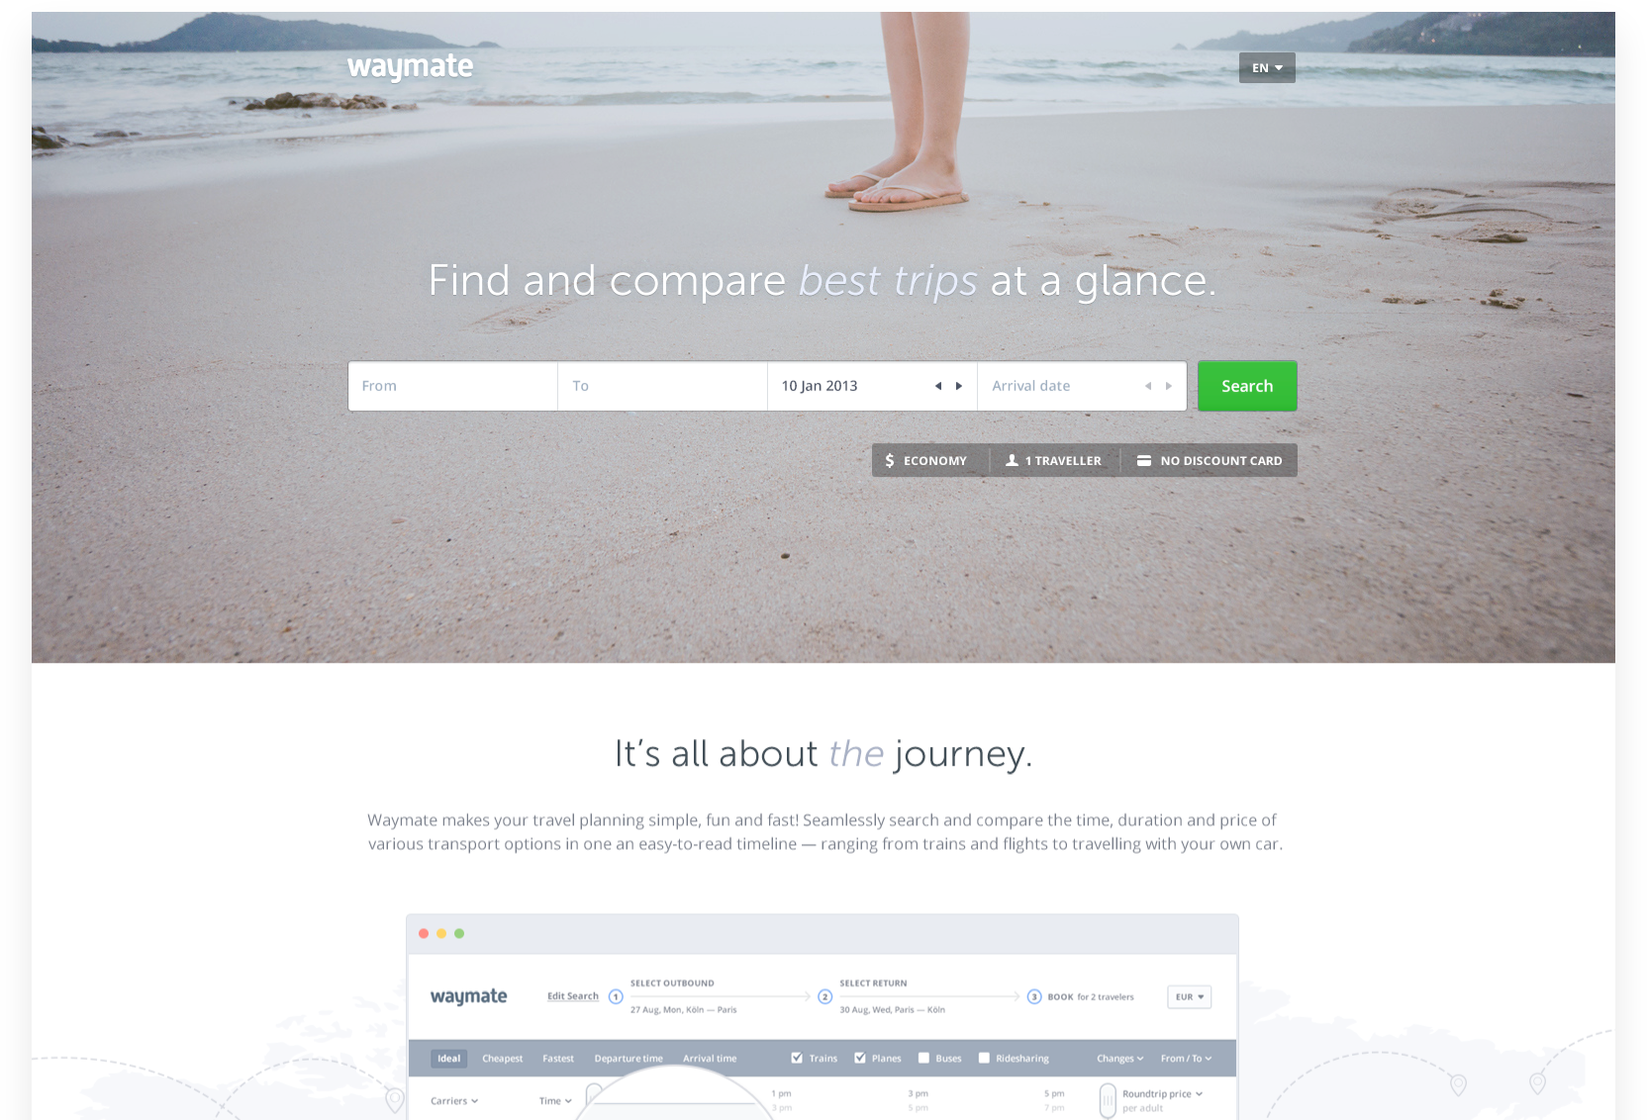
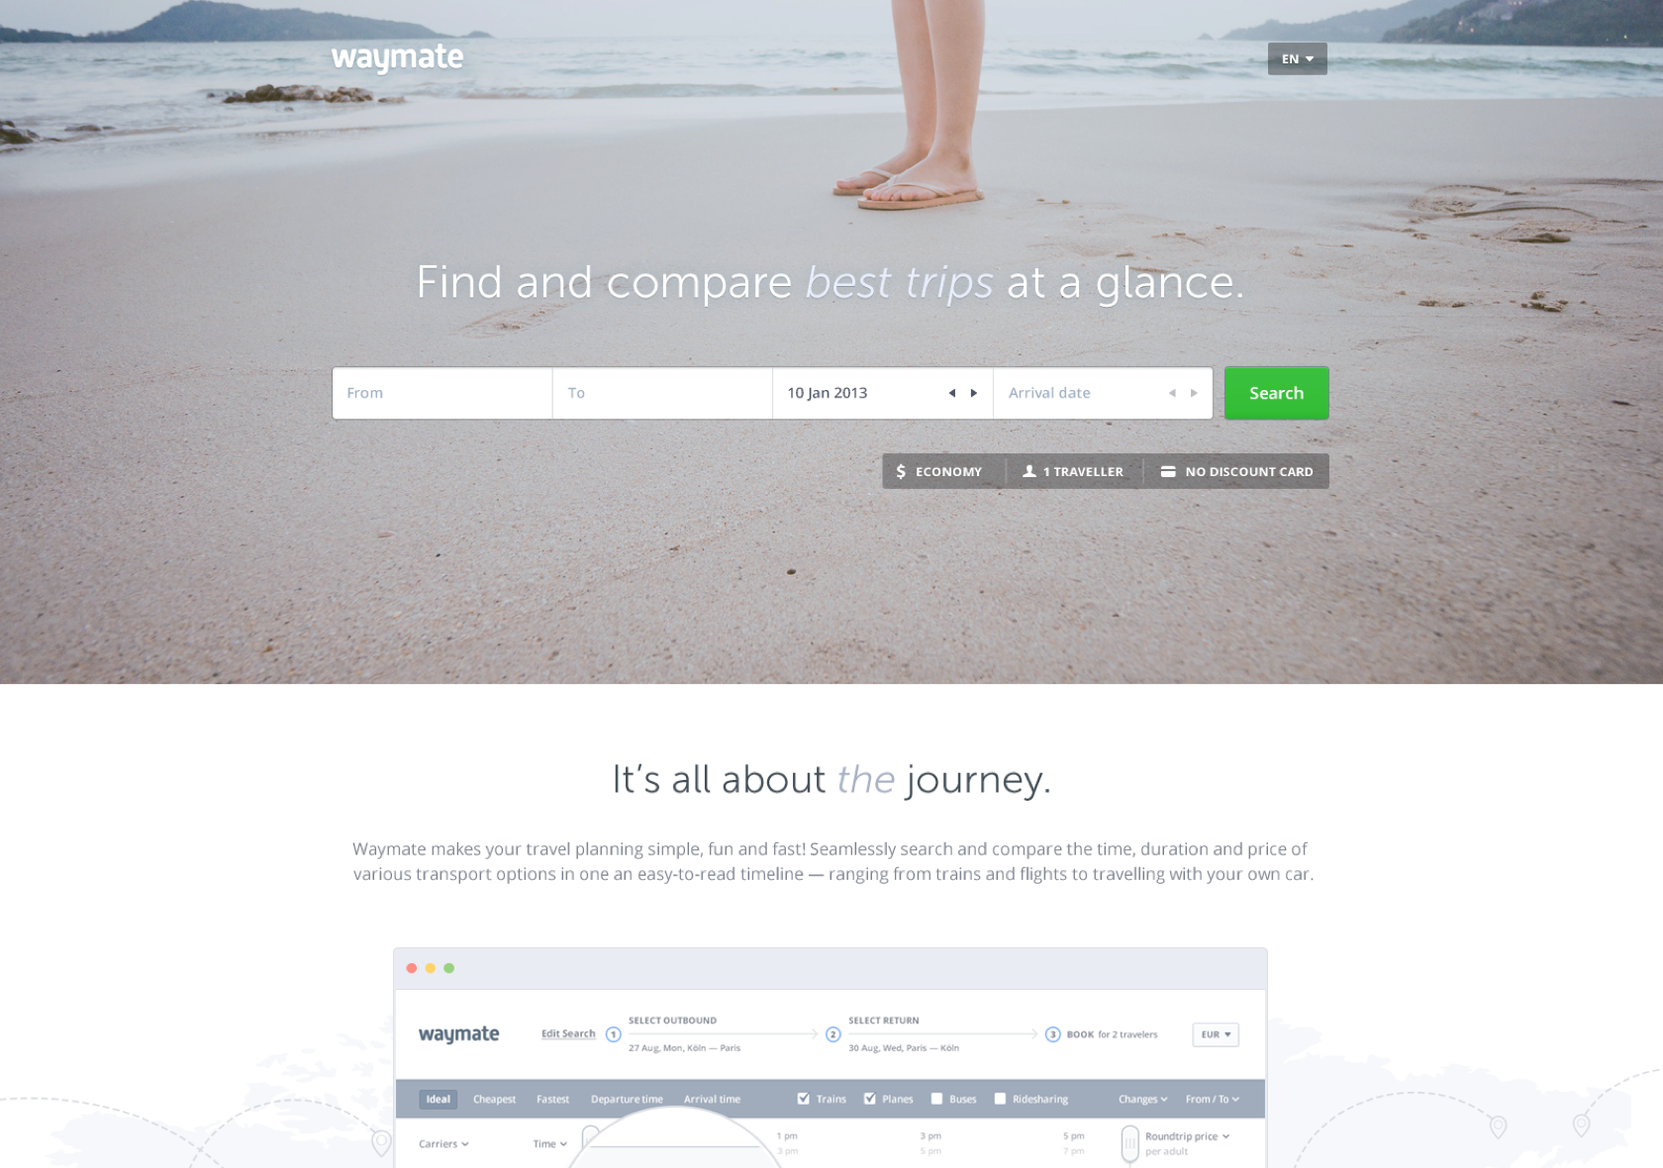
fix waymate

diff --git a/public/application.css b/public/application.css
@@ -1,1 +1,1 @@
-.navbar__container,.section__container{max-width:1240px;margin:0 auto;padding:0 20px}.section__container:after{content:'';clear:both;display:table}.section--intro .section__title{-moz-transform:translateY(-50%);-ms-transform:translateY(-50%);-webkit-transform:translateY(-50%);transform:translateY(-50%);position:absolute;top:50%}/*! normalize.css v3.0.3 | MIT License | github.com/necolas/normalize.css */html{font-family:sans-serif;-ms-text-size-adjust:100%;-webkit-text-size-adjust:100%}body{margin:0}article,aside,details,figcaption,figure,footer,header,hgroup,main,menu,nav,section,summary{display:block}audio,canvas,progress,video{display:inline-block;vertical-align:baseline}audio:not([controls]){display:none;height:0}[hidden],template{display:none}a{background-color:transparent}a:active,a:hover{outline:0}abbr[title]{border-bottom:1px dotted}b,strong{font-weight:bold}dfn{font-style:italic}h1{font-size:2em;margin:0.67em 0}mark{background:#ff0;color:#000}small{font-size:80%}sub,sup{font-size:75%;line-height:0;position:relative;vertical-align:baseline}sup{top:-0.5em}sub{bottom:-0.25em}img{border:0}svg:not(:root){overflow:hidden}figure{margin:1em 40px}hr{box-sizing:content-box;height:0}pre{overflow:auto}code,kbd,pre,samp{font-family:monospace, monospace;font-size:1em}button,input,optgroup,select,textarea{color:inherit;font:inherit;margin:0}button{overflow:visible}button,select{text-transform:none}button,html input[type="button"],input[type="reset"],input[type="submit"]{-webkit-appearance:button;cursor:pointer}button[disabled],html input[disabled]{cursor:default}button::-moz-focus-inner,input::-moz-focus-inner{border:0;padding:0}input{line-height:normal}input[type="checkbox"],input[type="radio"]{box-sizing:border-box;padding:0}input[type="number"]::-webkit-inner-spin-button,input[type="number"]::-webkit-outer-spin-button{height:auto}input[type="search"]{-webkit-appearance:textfield;box-sizing:content-box}input[type="search"]::-webkit-search-cancel-button,input[type="search"]::-webkit-search-decoration{-webkit-appearance:none}fieldset{border:1px solid #c0c0c0;margin:0 2px;padding:0.35em 0.625em 0.75em}legend{border:0;padding:0}textarea{overflow:auto}optgroup{font-weight:bold}table{border-collapse:collapse;border-spacing:0}td,th{padding:0}body{font:18px "Abel",sans-serif;color:#373f52;background:#fff;text-shadow:0 1px 2px rgba(0,0,0,0.1);text-rendering:optimizeLegibility;-webkit-font-smoothing:antialiased}p{margin:0}a{color:#fff;text-decoration:none}.navbar{z-index:10;position:absolute;top:50px;left:0;width:100%;text-transform:uppercase;font-size:16px}.navbar__container{box-sizing:border-box}.navbar__brand{float:left}.navbar__nav{float:right}.navbar__menu{list-style:none;padding:0;margin:0}.navbar__menu-item{display:inline-block;vertical-align:top;padding-left:60px;transition:all .4s}.navbar__menu-item:first-child{padding-left:0}.navbar__brand,.navbar__menu-link{border-bottom:2px solid rgba(238,55,105,0);transition:border .2s ease-in-out}.navbar__brand:hover,.navbar__menu-link:hover{border-bottom-color:#ee3769}@media screen and (max-width: 1024px){.navbar__menu-item{padding-left:30px}}@media screen and (max-width: 768px){.navbar{text-align:center;position:static;background:#b7cad3}.navbar__container{padding:20px 0}.navbar__brand,.navbar__nav{float:none}.navbar__brand{margin-bottom:20px}.navbar__nav{padding-top:20px}.navbar__menu-item{padding-left:10px}}.pagination{list-style:none;padding:0;margin:0}.pagination__item,.pagination__link{display:inline-block;vertical-align:middle}.pagination__item{padding:0 4px}.pagination__link{width:8px;height:8px;background:#ebecee;border-radius:100%}.pagination__link.is-active{background:#ee3769}.section{overflow:hidden}.section__container{box-sizing:border-box;padding-top:60px;padding-bottom:60px;min-height:800px;min-height:100vh;position:relative}.section__title{margin:0;padding:0;font-weight:normal;font-size:22px}.section__footer-link{font-size:14px;font-weight:300;font-family:"Merriweather",serif;font-style:italic;position:relative}.section__footer-link:after{content:'';position:absolute;bottom:-8px;left:0;width:40px;height:2px;background:#ee3769;transition:width .3s}.section__footer-link:hover:after{width:100%}.section--intro{background-image:url("images/intro-bg.jpg");background-position:50% 50%;background-repeat:no-repeat;background-size:cover;background-color:#b7cad3;color:#fff}.section--intro .section__title{max-width:70%;font-size:80px;font-family:"Merriweather",serif;font-style:italic;letter-spacing:2px;line-height:1.125;transition:all .4s}.section--intro .section__footer-link{-moz-transform:translateX(-50%);-ms-transform:translateX(-50%);-webkit-transform:translateX(-50%);transform:translateX(-50%);position:absolute;bottom:30px;left:50%}.section--intro .section__footer-link:after{-moz-transform:translateX(-50%);-ms-transform:translateX(-50%);-webkit-transform:translateX(-50%);transform:translateX(-50%);left:50%}@media screen and (max-width: 1024px){.section--intro .section__title{max-width:none;font-size:60px}}@media screen and (max-width: 768px){.section--intro{background-image:none}.section--intro .section__container{min-height:0;padding-top:30px;padding-bottom:100px}.section--intro .section__title{position:static;-moz-transform:none;-ms-transform:none;-webkit-transform:none;transform:none;font-size:40px}}.section--project-wimdu,.section--project-soundcloud,.section--project-waymate,.section--contact,.section--blog,.section--base{background-position:50% 50%;background-repeat:no-repeat;background-size:cover}.section--project-wimdu .section__column-left,.section--project-soundcloud .section__column-left,.section--project-waymate .section__column-left,.section--contact .section__column-left,.section--blog .section__column-left,.section--project-wimdu .section__column-right,.section--project-soundcloud .section__column-right,.section--project-waymate .section__column-right,.section--contact .section__column-right,.section--blog .section__column-right,.section--base .section__column-left,.section--base .section__column-right{transition:all .4s}.section--project-wimdu .section__column-left,.section--project-soundcloud .section__column-left,.section--project-waymate .section__column-left,.section--contact .section__column-left,.section--blog .section__column-left,.section--base .section__column-left{width:440px;float:left}.section--project-wimdu .section__column-right,.section--project-soundcloud .section__column-right,.section--project-waymate .section__column-right,.section--contact .section__column-right,.section--blog .section__column-right,.section--base .section__column-right{float:right}.section--project-wimdu .section__title,.section--project-soundcloud .section__title,.section--project-waymate .section__title,.section--contact .section__title,.section--blog .section__title,.section--project-wimdu .section__body,.section--project-soundcloud .section__body,.section--project-waymate .section__body,.section--contact .section__body,.section--blog .section__body,.section--base .section__title,.section--base .section__body{margin-bottom:30px}.section--project-wimdu .section__body,.section--project-soundcloud .section__body,.section--project-waymate .section__body,.section--contact .section__body,.section--blog .section__body,.section--base .section__body{letter-spacing:.5px;line-height:1.25}.section--project-wimdu .section__image,.section--project-soundcloud .section__image,.section--project-waymate .section__image,.section--contact .section__image,.section--blog .section__image,.section--base .section__image{display:block;position:absolute;right:-100px;top:110px;width:calc(100% - 440px)}@media screen and (max-width: 1024px){.section--project-wimdu .section__container,.section--project-soundcloud .section__container,.section--project-waymate .section__container,.section--contact .section__container,.section--blog .section__container,.section--base .section__container{min-height:auto}.section--project-wimdu .section__column-left,.section--project-soundcloud .section__column-left,.section--project-waymate .section__column-left,.section--contact .section__column-left,.section--blog .section__column-left,.section--project-wimdu .section__column-right,.section--project-soundcloud .section__column-right,.section--project-waymate .section__column-right,.section--contact .section__column-right,.section--blog .section__column-right,.section--base .section__column-left,.section--base .section__column-right{width:100%;float:none}.section--project-wimdu .section__column-left,.section--project-soundcloud .section__column-left,.section--project-waymate .section__column-left,.section--contact .section__column-left,.section--blog .section__column-left,.section--base .section__column-left{margin-bottom:40px}.section--project-wimdu .section__image,.section--project-soundcloud .section__image,.section--project-waymate .section__image,.section--contact .section__image,.section--blog .section__image,.section--base .section__image{width:100%;position:static}}@media screen and (max-width: 768px){.section--project-wimdu .section__container,.section--project-soundcloud .section__container,.section--project-waymate .section__container,.section--contact .section__container,.section--blog .section__container,.section--base .section__container{padding-top:30px;padding-bottom:30px}}.section--project-soundcloud,.section--contact,.section--light{text-shadow:none}.section--project-soundcloud .section__footer-link,.section--contact .section__footer-link,.section--light .section__footer-link{color:#373f52}.section--project-wimdu{background-image:url("images/project-bg-wimdu.jpg");background-color:#006cb7;color:#fff}@media screen and (max-width: 768px){.section--project-wimdu .section__container{min-height:80vh}}.section--project-waymate{background-image:url("images/project-bg-waymate.jpg");background-color:#b4c1d1;color:#fff}.section--contact .section__column-left{width:40%}.section--contact .section__column-right{max-width:600px;width:55%}@media screen and (max-width: 1024px){.section--contact .section__column-left,.section--contact .section__column-right{max-width:none;width:100%}}.section--blog{background-image:url("images/blog-bg.jpg");color:#fff}.section--blog .section__body{font-size:36px;letter-spacing:1px;line-height:1.25}.testimonials{position:relative;box-sizing:border-box;padding:50px 15% 0;margin-top:50px;height:400px;text-align:center;box-shadow:0px 10px 40px 0px rgba(0,0,0,0.1);border-radius:5px}.testimonials__image{display:block;margin:0 auto 25px;width:100px;height:100px}.testimonials__title,.testimonials__subtitle{padding:0;margin:0;font-weight:normal}.testimonials__title{font-family:"Merriweather",serif;font-style:italic;margin-bottom:10px}.testimonials__subtitle{margin-bottom:20px}.testimonials__content{font-size:14px;font-family:"Merriweather",serif;font-style:italic;line-height:1.5}.testimonials__pagination{position:absolute;bottom:40px;left:0;width:100%;text-align:center}@media screen and (max-width: 1024px){.testimonials{height:auto;padding-bottom:90px}}
+.navbar__container,.section__container{max-width:1240px;margin:0 auto;padding:0 20px}.section__container:after{content:'';clear:both;display:table}.section--intro .section__title{-moz-transform:translateY(-50%);-ms-transform:translateY(-50%);-webkit-transform:translateY(-50%);transform:translateY(-50%);position:absolute;top:50%}/*! normalize.css v3.0.3 | MIT License | github.com/necolas/normalize.css */html{font-family:sans-serif;-ms-text-size-adjust:100%;-webkit-text-size-adjust:100%}body{margin:0}article,aside,details,figcaption,figure,footer,header,hgroup,main,menu,nav,section,summary{display:block}audio,canvas,progress,video{display:inline-block;vertical-align:baseline}audio:not([controls]){display:none;height:0}[hidden],template{display:none}a{background-color:transparent}a:active,a:hover{outline:0}abbr[title]{border-bottom:1px dotted}b,strong{font-weight:bold}dfn{font-style:italic}h1{font-size:2em;margin:0.67em 0}mark{background:#ff0;color:#000}small{font-size:80%}sub,sup{font-size:75%;line-height:0;position:relative;vertical-align:baseline}sup{top:-0.5em}sub{bottom:-0.25em}img{border:0}svg:not(:root){overflow:hidden}figure{margin:1em 40px}hr{box-sizing:content-box;height:0}pre{overflow:auto}code,kbd,pre,samp{font-family:monospace, monospace;font-size:1em}button,input,optgroup,select,textarea{color:inherit;font:inherit;margin:0}button{overflow:visible}button,select{text-transform:none}button,html input[type="button"],input[type="reset"],input[type="submit"]{-webkit-appearance:button;cursor:pointer}button[disabled],html input[disabled]{cursor:default}button::-moz-focus-inner,input::-moz-focus-inner{border:0;padding:0}input{line-height:normal}input[type="checkbox"],input[type="radio"]{box-sizing:border-box;padding:0}input[type="number"]::-webkit-inner-spin-button,input[type="number"]::-webkit-outer-spin-button{height:auto}input[type="search"]{-webkit-appearance:textfield;box-sizing:content-box}input[type="search"]::-webkit-search-cancel-button,input[type="search"]::-webkit-search-decoration{-webkit-appearance:none}fieldset{border:1px solid #c0c0c0;margin:0 2px;padding:0.35em 0.625em 0.75em}legend{border:0;padding:0}textarea{overflow:auto}optgroup{font-weight:bold}table{border-collapse:collapse;border-spacing:0}td,th{padding:0}body{font:18px "Abel",sans-serif;color:#373f52;background:#fff;text-shadow:0 1px 2px rgba(0,0,0,0.1);text-rendering:optimizeLegibility;-webkit-font-smoothing:antialiased}p{margin:0}a{color:#fff;text-decoration:none}.navbar{z-index:10;position:absolute;top:50px;left:0;width:100%;text-transform:uppercase;font-size:16px}.navbar__container{box-sizing:border-box}.navbar__brand{float:left}.navbar__nav{float:right}.navbar__menu{list-style:none;padding:0;margin:0}.navbar__menu-item{display:inline-block;vertical-align:top;padding-left:60px;transition:all .4s}.navbar__menu-item:first-child{padding-left:0}.navbar__brand,.navbar__menu-link{border-bottom:2px solid rgba(238,55,105,0);transition:border .2s ease-in-out}.navbar__brand:hover,.navbar__menu-link:hover{border-bottom-color:#ee3769}@media screen and (max-width: 1024px){.navbar__menu-item{padding-left:30px}}@media screen and (max-width: 768px){.navbar{text-align:center;position:static;background:#b7cad3}.navbar__container{padding:20px 0}.navbar__brand,.navbar__nav{float:none}.navbar__brand{margin-bottom:20px}.navbar__nav{padding-top:20px}.navbar__menu-item{padding-left:10px}}.pagination{list-style:none;padding:0;margin:0}.pagination__item,.pagination__link{display:inline-block;vertical-align:middle}.pagination__item{padding:0 4px}.pagination__link{width:8px;height:8px;background:#ebecee;border-radius:100%}.pagination__link.is-active{background:#ee3769}.section{overflow:hidden}.section__container{box-sizing:border-box;padding-top:60px;padding-bottom:60px;min-height:800px;min-height:100vh;position:relative}.section__title{margin:0;padding:0;font-weight:normal;font-size:22px}.section__footer-link{font-size:14px;font-weight:300;font-family:"Merriweather",serif;font-style:italic;position:relative}.section__footer-link:after{content:'';position:absolute;bottom:-8px;left:0;width:40px;height:2px;background:#ee3769;transition:width .3s}.section__footer-link:hover:after{width:100%}.section--intro{background-image:url("images/intro-bg.jpg");background-position:50% 50%;background-repeat:no-repeat;background-size:cover;background-color:#b7cad3;color:#fff}.section--intro .section__title{max-width:70%;font-size:80px;font-family:"Merriweather",serif;font-style:italic;letter-spacing:2px;line-height:1.125;transition:all .4s}.section--intro .section__footer-link{-moz-transform:translateX(-50%);-ms-transform:translateX(-50%);-webkit-transform:translateX(-50%);transform:translateX(-50%);position:absolute;bottom:30px;left:50%}.section--intro .section__footer-link:after{-moz-transform:translateX(-50%);-ms-transform:translateX(-50%);-webkit-transform:translateX(-50%);transform:translateX(-50%);left:50%}@media screen and (max-width: 1024px){.section--intro .section__title{max-width:none;font-size:60px}}@media screen and (max-width: 768px){.section--intro{background-image:none}.section--intro .section__container{min-height:0;padding-top:30px;padding-bottom:100px}.section--intro .section__title{position:static;-moz-transform:none;-ms-transform:none;-webkit-transform:none;transform:none;font-size:40px}}.section--project-wimdu,.section--project-soundcloud,.section--project-waymate,.section--contact,.section--blog,.section--base{background-position:50% 50%;background-repeat:no-repeat;background-size:cover}.section--project-wimdu .section__column-left,.section--project-soundcloud .section__column-left,.section--project-waymate .section__column-left,.section--contact .section__column-left,.section--blog .section__column-left,.section--project-wimdu .section__column-right,.section--project-soundcloud .section__column-right,.section--project-waymate .section__column-right,.section--contact .section__column-right,.section--blog .section__column-right,.section--base .section__column-left,.section--base .section__column-right{transition:all .4s}.section--project-wimdu .section__column-left,.section--project-soundcloud .section__column-left,.section--project-waymate .section__column-left,.section--contact .section__column-left,.section--blog .section__column-left,.section--base .section__column-left{width:440px;float:left}.section--project-wimdu .section__column-right,.section--project-soundcloud .section__column-right,.section--project-waymate .section__column-right,.section--contact .section__column-right,.section--blog .section__column-right,.section--base .section__column-right{float:right}.section--project-wimdu .section__title,.section--project-soundcloud .section__title,.section--project-waymate .section__title,.section--contact .section__title,.section--blog .section__title,.section--project-wimdu .section__body,.section--project-soundcloud .section__body,.section--project-waymate .section__body,.section--contact .section__body,.section--blog .section__body,.section--base .section__title,.section--base .section__body{margin-bottom:30px}.section--project-wimdu .section__body,.section--project-soundcloud .section__body,.section--project-waymate .section__body,.section--contact .section__body,.section--blog .section__body,.section--base .section__body{letter-spacing:.5px;line-height:1.25}.section--project-wimdu .section__image,.section--project-soundcloud .section__image,.section--project-waymate .section__image,.section--contact .section__image,.section--blog .section__image,.section--base .section__image{display:block;position:absolute;right:-100px;top:110px;width:calc(100% - 440px)}@media screen and (max-width: 1024px){.section--project-wimdu .section__container,.section--project-soundcloud .section__container,.section--project-waymate .section__container,.section--contact .section__container,.section--blog .section__container,.section--base .section__container{min-height:auto}.section--project-wimdu .section__column-left,.section--project-soundcloud .section__column-left,.section--project-waymate .section__column-left,.section--contact .section__column-left,.section--blog .section__column-left,.section--project-wimdu .section__column-right,.section--project-soundcloud .section__column-right,.section--project-waymate .section__column-right,.section--contact .section__column-right,.section--blog .section__column-right,.section--base .section__column-left,.section--base .section__column-right{width:100%;float:none}.section--project-wimdu .section__column-left,.section--project-soundcloud .section__column-left,.section--project-waymate .section__column-left,.section--contact .section__column-left,.section--blog .section__column-left,.section--base .section__column-left{margin-bottom:40px}.section--project-wimdu .section__image,.section--project-soundcloud .section__image,.section--project-waymate .section__image,.section--contact .section__image,.section--blog .section__image,.section--base .section__image{width:100%;position:static}}@media screen and (max-width: 768px){.section--project-wimdu .section__container,.section--project-soundcloud .section__container,.section--project-waymate .section__container,.section--contact .section__container,.section--blog .section__container,.section--base .section__container{padding-top:30px;padding-bottom:30px}}.section--project-soundcloud,.section--contact,.section--light{text-shadow:none}.section--project-soundcloud .section__footer-link,.section--contact .section__footer-link,.section--light .section__footer-link{color:#373f52}.section--project-wimdu{background-image:url("images/project-bg-wimdu.jpg");background-color:#006cb7;color:#fff}@media screen and (max-width: 768px){.section--project-wimdu .section__container{min-height:80vh}}.section--project-waymate{background-image:url("images/project-bg-waymate.jpg");background-color:#b4c1d1;color:#fff}.section--project-waymate .section__image{box-shadow:0px 10px 40px 0px rgba(0,0,0,0.1);border-radius:5px}.section--contact .section__column-left{width:40%}.section--contact .section__column-right{max-width:600px;width:55%}@media screen and (max-width: 1024px){.section--contact .section__column-left,.section--contact .section__column-right{max-width:none;width:100%}}.section--blog{background-image:url("images/blog-bg.jpg");color:#fff}.section--blog .section__body{font-size:36px;letter-spacing:1px;line-height:1.25}.testimonials{position:relative;box-sizing:border-box;padding:50px 15% 0;margin-top:50px;height:400px;text-align:center;box-shadow:0px 10px 40px 0px rgba(0,0,0,0.1);border-radius:5px}.testimonials__image{display:block;margin:0 auto 25px;width:100px;height:100px}.testimonials__title,.testimonials__subtitle{padding:0;margin:0;font-weight:normal}.testimonials__title{font-family:"Merriweather",serif;font-style:italic;margin-bottom:10px}.testimonials__subtitle{margin-bottom:20px}.testimonials__content{font-size:14px;font-family:"Merriweather",serif;font-style:italic;line-height:1.5}.testimonials__pagination{position:absolute;bottom:40px;left:0;width:100%;text-align:center}@media screen and (max-width: 1024px){.testimonials{height:auto;padding-bottom:90px}}

diff --git a/src/scss/modules/_sections.scss b/src/scss/modules/_sections.scss
@@ -214,6 +214,11 @@ $section--content-width: 440px;
   background-image: url('images/project-bg-waymate.jpg');
   background-color: #b4c1d1;
   color: $color-white;
+
+  .section__image {
+    box-shadow: 0px 10px 40px 0px rgba(#000, .1);
+    border-radius: 5px;
+  }
 }
 
 // --- sections: contact -------------------------------------------------------
